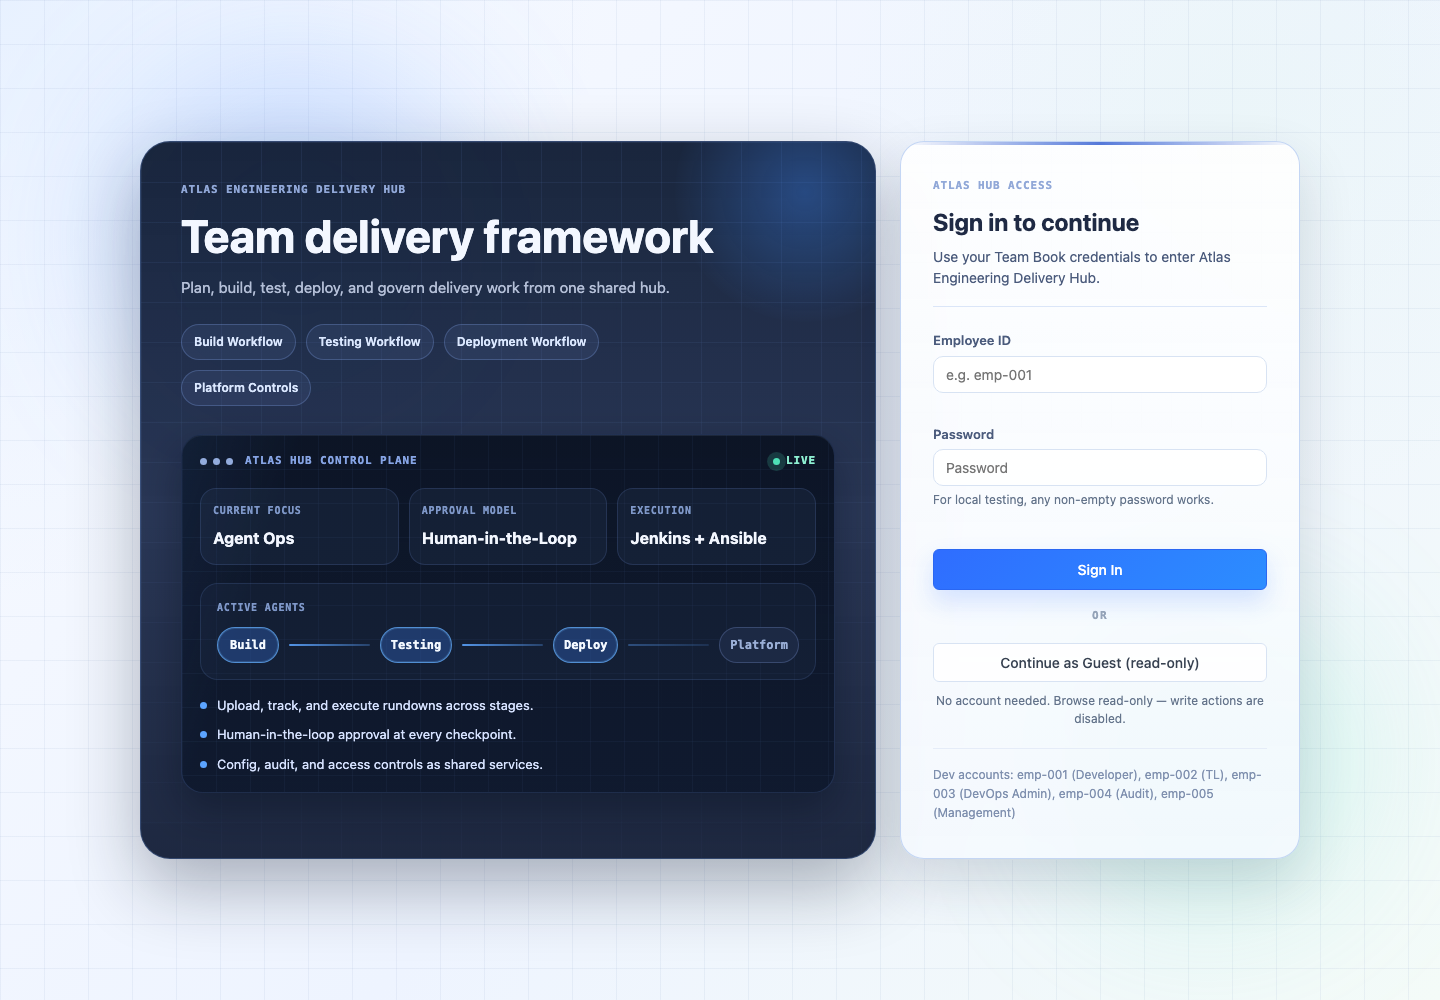
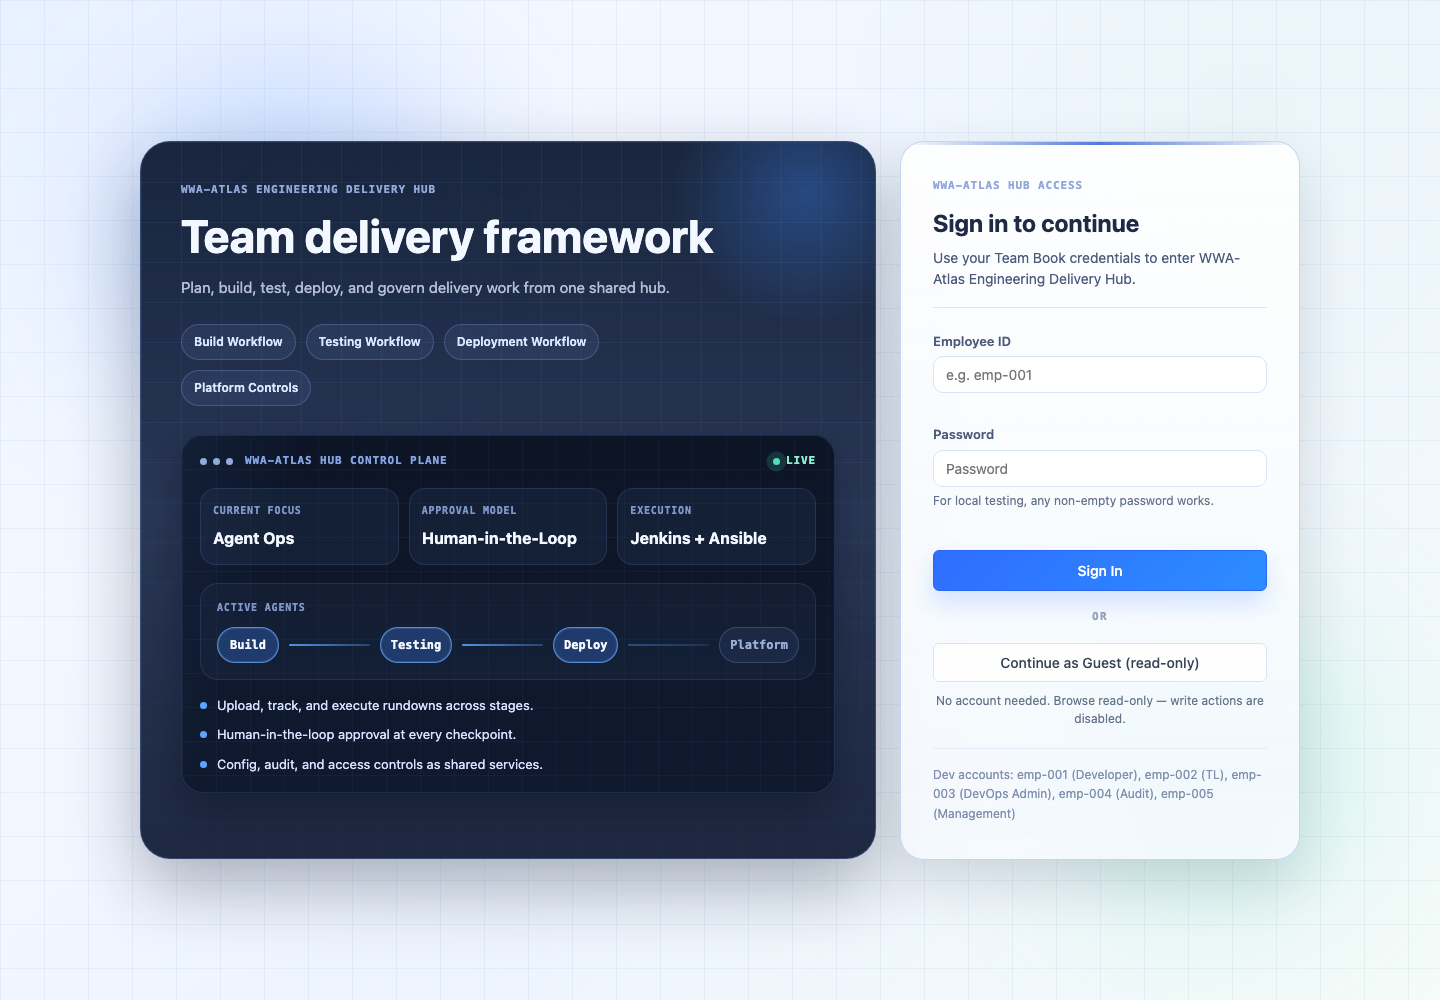
docs: preserve wwa in atlas hub branding

diff --git a/frontend/src/views/WorkspaceLayout.vue b/frontend/src/views/WorkspaceLayout.vue
@@ -26,10 +26,10 @@ type PrimaryNavItem = {
 }
 
 const primaryNavItems: PrimaryNavItem[] = [
-  { key: 'wwa', label: 'Atlas Hub', icon: '◫', expandable: true },
+  { key: 'wwa', label: 'WWA-Atlas Hub', icon: '◫', expandable: true },
 ]
 
-const activeSectionTitle = computed(() => (route.meta.sectionTitle as string) ?? 'Atlas Hub')
+const activeSectionTitle = computed(() => (route.meta.sectionTitle as string) ?? 'WWA-Atlas Hub')
 const isWwaWorkspace = computed(() => route.path.startsWith('/wwa'))
 const isWwaHomeRoute = computed(() => route.name === 'wwa-home')
 
@@ -162,7 +162,7 @@ watch(
       <div class="sidebar-logo">
         <span class="logo-icon">▣</span>
         <div class="logo-copy">
-          <span class="logo-text">Atlas Hub</span>
+          <span class="logo-text">WWA-Atlas Hub</span>
           <span class="logo-subtitle">Engineering Delivery Hub</span>
         </div>
       </div>
@@ -204,14 +204,14 @@ watch(
         :style="{ top: `${flyoutTop}px` }"
       >
         <div class="secondary-nav">
-          <!-- Atlas Hub Home -->
+          <!-- WWA-Atlas Hub Home -->
           <router-link
             to="/wwa/home"
             class="nav-link secondary-link flyout-home"
             @click="closeWwaFlyout"
           >
             <span class="nav-icon" aria-hidden="true">🏠</span>
-            <span class="nav-label">Atlas Hub Home</span>
+            <span class="nav-label">WWA-Atlas Hub Home</span>
           </router-link>
 
           <!-- Agent Workspaces -->
@@ -259,7 +259,7 @@ watch(
     <div class="main-area">
       <header class="topbar">
         <div class="topbar-branding">
-          <div class="topbar-kicker">Atlas Hub</div>
+          <div class="topbar-kicker">WWA-Atlas Hub</div>
           <div class="topbar-title">
             <span v-if="shouldShowWorkspaceBreadcrumb" class="breadcrumb-workspace">{{ activeWorkspaceLabel }}</span>
             <span v-if="shouldShowWorkspaceBreadcrumb" class="breadcrumb-sep" aria-hidden="true"> › </span>
@@ -272,7 +272,7 @@ watch(
             class="workspace-topbar-link wwa-home-topbar-link"
             :aria-current="isWwaHomeRoute ? 'page' : undefined"
           >
-            ← Atlas Hub Home
+            ← WWA-Atlas Hub Home
           </router-link>
           <a :href="FINBLOCK_URL" class="finblock-topbar-link" title="Return to FinBlock">← FinBlock</a>
           <span

diff --git a/frontend/src/views/LoginView.vue b/frontend/src/views/LoginView.vue
@@ -62,7 +62,7 @@ async function handleLogin() {
       <section class="login-story" aria-labelledby="login-story-title">
         <div class="login-story-grid">
           <div class="login-story-copy-block">
-            <div class="login-story-kicker">Atlas Engineering Delivery Hub</div>
+            <div class="login-story-kicker">WWA-Atlas Engineering Delivery Hub</div>
             <h1 id="login-story-title" class="login-story-title">Team delivery framework</h1>
             <p class="login-story-copy">
               Plan, build, test, deploy, and govern delivery work from one shared hub.
@@ -82,7 +82,7 @@ async function handleLogin() {
                 <span></span>
                 <span></span>
               </div>
-              <span class="login-console-caption">ATLAS HUB CONTROL PLANE</span>
+              <span class="login-console-caption">WWA-ATLAS HUB CONTROL PLANE</span>
               <span class="login-console-status">Live</span>
             </div>
 
@@ -134,9 +134,9 @@ async function handleLogin() {
 
       <div class="login-card">
         <div class="login-header">
-          <div class="login-kicker">Atlas Hub Access</div>
+          <div class="login-kicker">WWA-Atlas Hub Access</div>
           <h2 class="login-title">Sign in to continue</h2>
-          <p class="login-subtitle">Use your Team Book credentials to enter Atlas Engineering Delivery Hub.</p>
+          <p class="login-subtitle">Use your Team Book credentials to enter WWA-Atlas Engineering Delivery Hub.</p>
         </div>
 
         <form class="login-form" @submit.prevent="handleLogin">

diff --git a/frontend/src/views/WwaHomeView.vue b/frontend/src/views/WwaHomeView.vue
@@ -17,8 +17,8 @@ const enabledAgents = agentRegistry.filter((a) => a.enabled)
         <div class="home-hero-main">
           <div class="home-header">
             <div class="home-header-text">
-              <div class="home-platform-label">Atlas Engineering Delivery Hub</div>
-              <h1 class="home-title">Atlas Hub Control Center</h1>
+              <div class="home-platform-label">WWA-Atlas Engineering Delivery Hub</div>
+              <h1 class="home-title">WWA-Atlas Hub Control Center</h1>
               <p class="home-subtitle">
                 Operate delivery agents, shared controls, and traceable team workflows from one hub.
               </p>
@@ -34,13 +34,13 @@ const enabledAgents = agentRegistry.filter((a) => a.enabled)
             <div class="wwa-intro-kicker">Overview</div>
               <h2 id="wwa-home-intro-title" class="wwa-intro-title">Shared team delivery workspace</h2>
               <p class="wwa-intro-text">
-              Build, testing, and Deployment Agent workspaces with shared Atlas Hub controls.
+              Build, testing, and Deployment Agent workspaces with shared WWA-Atlas Hub controls.
               Select a workspace below to get started.
               </p>
             </section>
         </div>
 
-        <aside class="home-console" aria-label="Atlas Hub control summary">
+        <aside class="home-console" aria-label="WWA-Atlas Hub control summary">
           <div class="home-console-topbar">
             <span class="home-console-kicker">Control Plane</span>
             <span class="home-console-status">Online</span>

diff --git a/frontend/src/views/AccessManagementView.vue b/frontend/src/views/AccessManagementView.vue
@@ -158,7 +158,7 @@ function statusClass(status: AccessGrantStatus) {
   <div class="access-view">
     <div class="view-header">
       <div>
-        <p class="view-eyebrow">Atlas Hub Shared Capability</p>
+        <p class="view-eyebrow">WWA-Atlas Hub Shared Capability</p>
         <h1 class="view-title">Access Management</h1>
         <p class="view-subtitle">
           Manage product entry, roles, and Application + SNOW Group visibility scopes.
@@ -244,7 +244,7 @@ function statusClass(status: AccessGrantStatus) {
           <div>
             <h2 class="section-title">Product Access Grants</h2>
             <p class="section-subtitle">
-              Effective Atlas Hub workspace access, sorted by latest admin change.
+              Effective WWA-Atlas Hub workspace access, sorted by latest admin change.
             </p>
           </div>
         </div>

diff --git a/frontend/src/config/agentRegistry.ts b/frontend/src/config/agentRegistry.ts
@@ -1,7 +1,7 @@
 /**
  * Agent Registry — static configuration for Phase 1.
  *
- * Each entry defines the metadata Atlas Hub uses to render agent cards on the home page
+ * Each entry defines the metadata WWA-Atlas Hub uses to render agent cards on the home page
  * and drive the shell flyout navigation. When a second agent is onboarded (WWA-019),
  * add an entry here. No shell code changes should be required.
  *
@@ -62,7 +62,7 @@ export function getAgentDescriptor(key: string): AgentDescriptor | undefined {
   return agentRegistry.find((agent) => agent.key === key)
 }
 
-/** Atlas Hub-owned shared capability nav items. Not agent workspaces. */
+/** WWA-Atlas Hub-owned shared capability nav items. Not agent workspaces. */
 export type PlatformCapabilityDescriptor = {
   key: string
   label: string

diff --git a/frontend/src/components/UploadDialog.vue b/frontend/src/components/UploadDialog.vue
@@ -269,7 +269,7 @@ function close() {
             <div class="field-hint">
               Recommended for repeated uploads. Reuse the same identifier when later uploads should
               stay grouped under one workflow summary across SIT, UAT, and PROD. Re-uploading the
-              same stage under the same identifier creates a new attempt. If left blank, Atlas Hub creates
+              same stage under the same identifier creates a new attempt. If left blank, WWA-Atlas Hub creates
               a new rollout instead of implicitly merging stages.
             </div>
           </div>

diff --git a/frontend/src/components/AccessGrantDialog.vue b/frontend/src/components/AccessGrantDialog.vue
@@ -309,7 +309,7 @@ function submit() {
             :disabled="employeeIdDisabled"
           />
           <p class="field-hint">
-            This dialog creates an Atlas Hub access grant by Staff ID. Team Book search is optional in create mode.
+            This dialog creates a WWA-Atlas Hub access grant by Staff ID. Team Book search is optional in create mode.
           </p>
           <div v-if="selectedCandidate" class="directory-selected">
             Selected employee: <strong>{{ selectedCandidate.displayName }}</strong>

diff --git a/frontend/src/views/AgentContributionDashboardView.vue b/frontend/src/views/AgentContributionDashboardView.vue
@@ -252,7 +252,7 @@ function formatTimestamp(value: string) {
   <div class="agent-contribution-dashboard">
     <div class="view-header">
       <div>
-        <p class="view-eyebrow">Atlas Hub Shared Capability</p>
+        <p class="view-eyebrow">WWA-Atlas Hub Shared Capability</p>
         <h1 class="view-title">Agent Contribute Dashboard</h1>
         <p class="view-subtitle">
           Qilianshan SDLC coverage, ownership, and contribution accountability.

diff --git a/frontend/src/views/ConfigAdminView.vue b/frontend/src/views/ConfigAdminView.vue
@@ -549,7 +549,7 @@ function displayValue(value?: string) {
   <div class="config-view">
     <div class="view-header">
       <div>
-        <p class="view-eyebrow">Atlas Hub Shared Capability</p>
+        <p class="view-eyebrow">WWA-Atlas Hub Shared Capability</p>
         <h1 class="view-title">Configuration Management</h1>
         <p class="view-subtitle">
           Manage the shared system integrations used by agent execution and review workflows.

diff --git a/frontend/src/views/AuditLogView.vue b/frontend/src/views/AuditLogView.vue
@@ -201,7 +201,7 @@ function scopeValue(value?: string): string {
   <div class="audit-view">
     <div class="view-header">
       <div>
-        <p class="view-eyebrow">Atlas Hub Shared Capability</p>
+        <p class="view-eyebrow">WWA-Atlas Hub Shared Capability</p>
         <h1 class="view-title">Audit Log</h1>
         <p class="view-subtitle">
           Trace who did what, when, and with what detail.

diff --git a/frontend/src/views/TemplateManagementView.vue b/frontend/src/views/TemplateManagementView.vue
@@ -968,7 +968,7 @@ onBeforeUnmount(() => {
   <div class="template-view">
     <div class="view-header">
       <div>
-        <p class="view-eyebrow">Atlas Hub Shared Capability</p>
+        <p class="view-eyebrow">WWA-Atlas Hub Shared Capability</p>
         <h1 class="view-title">Template Management</h1>
         <p class="view-subtitle">
           Browse and manage reusable workflow templates.

diff --git a/frontend/src/platform/components/ReleaseFlowSummaryView.vue b/frontend/src/platform/components/ReleaseFlowSummaryView.vue
@@ -182,7 +182,7 @@ function toggleArchivedVisibility() {
   <div class="summary-view">
     <div class="view-header">
       <div>
-        <p class="view-eyebrow">Atlas Hub Agent Workspace</p>
+        <p class="view-eyebrow">WWA-Atlas Hub Agent Workspace</p>
         <h1 class="view-title">{{ copy.agentTitle }}</h1>
         <p class="view-subtitle">{{ copy.agentSubtitle }}</p>
       </div>
